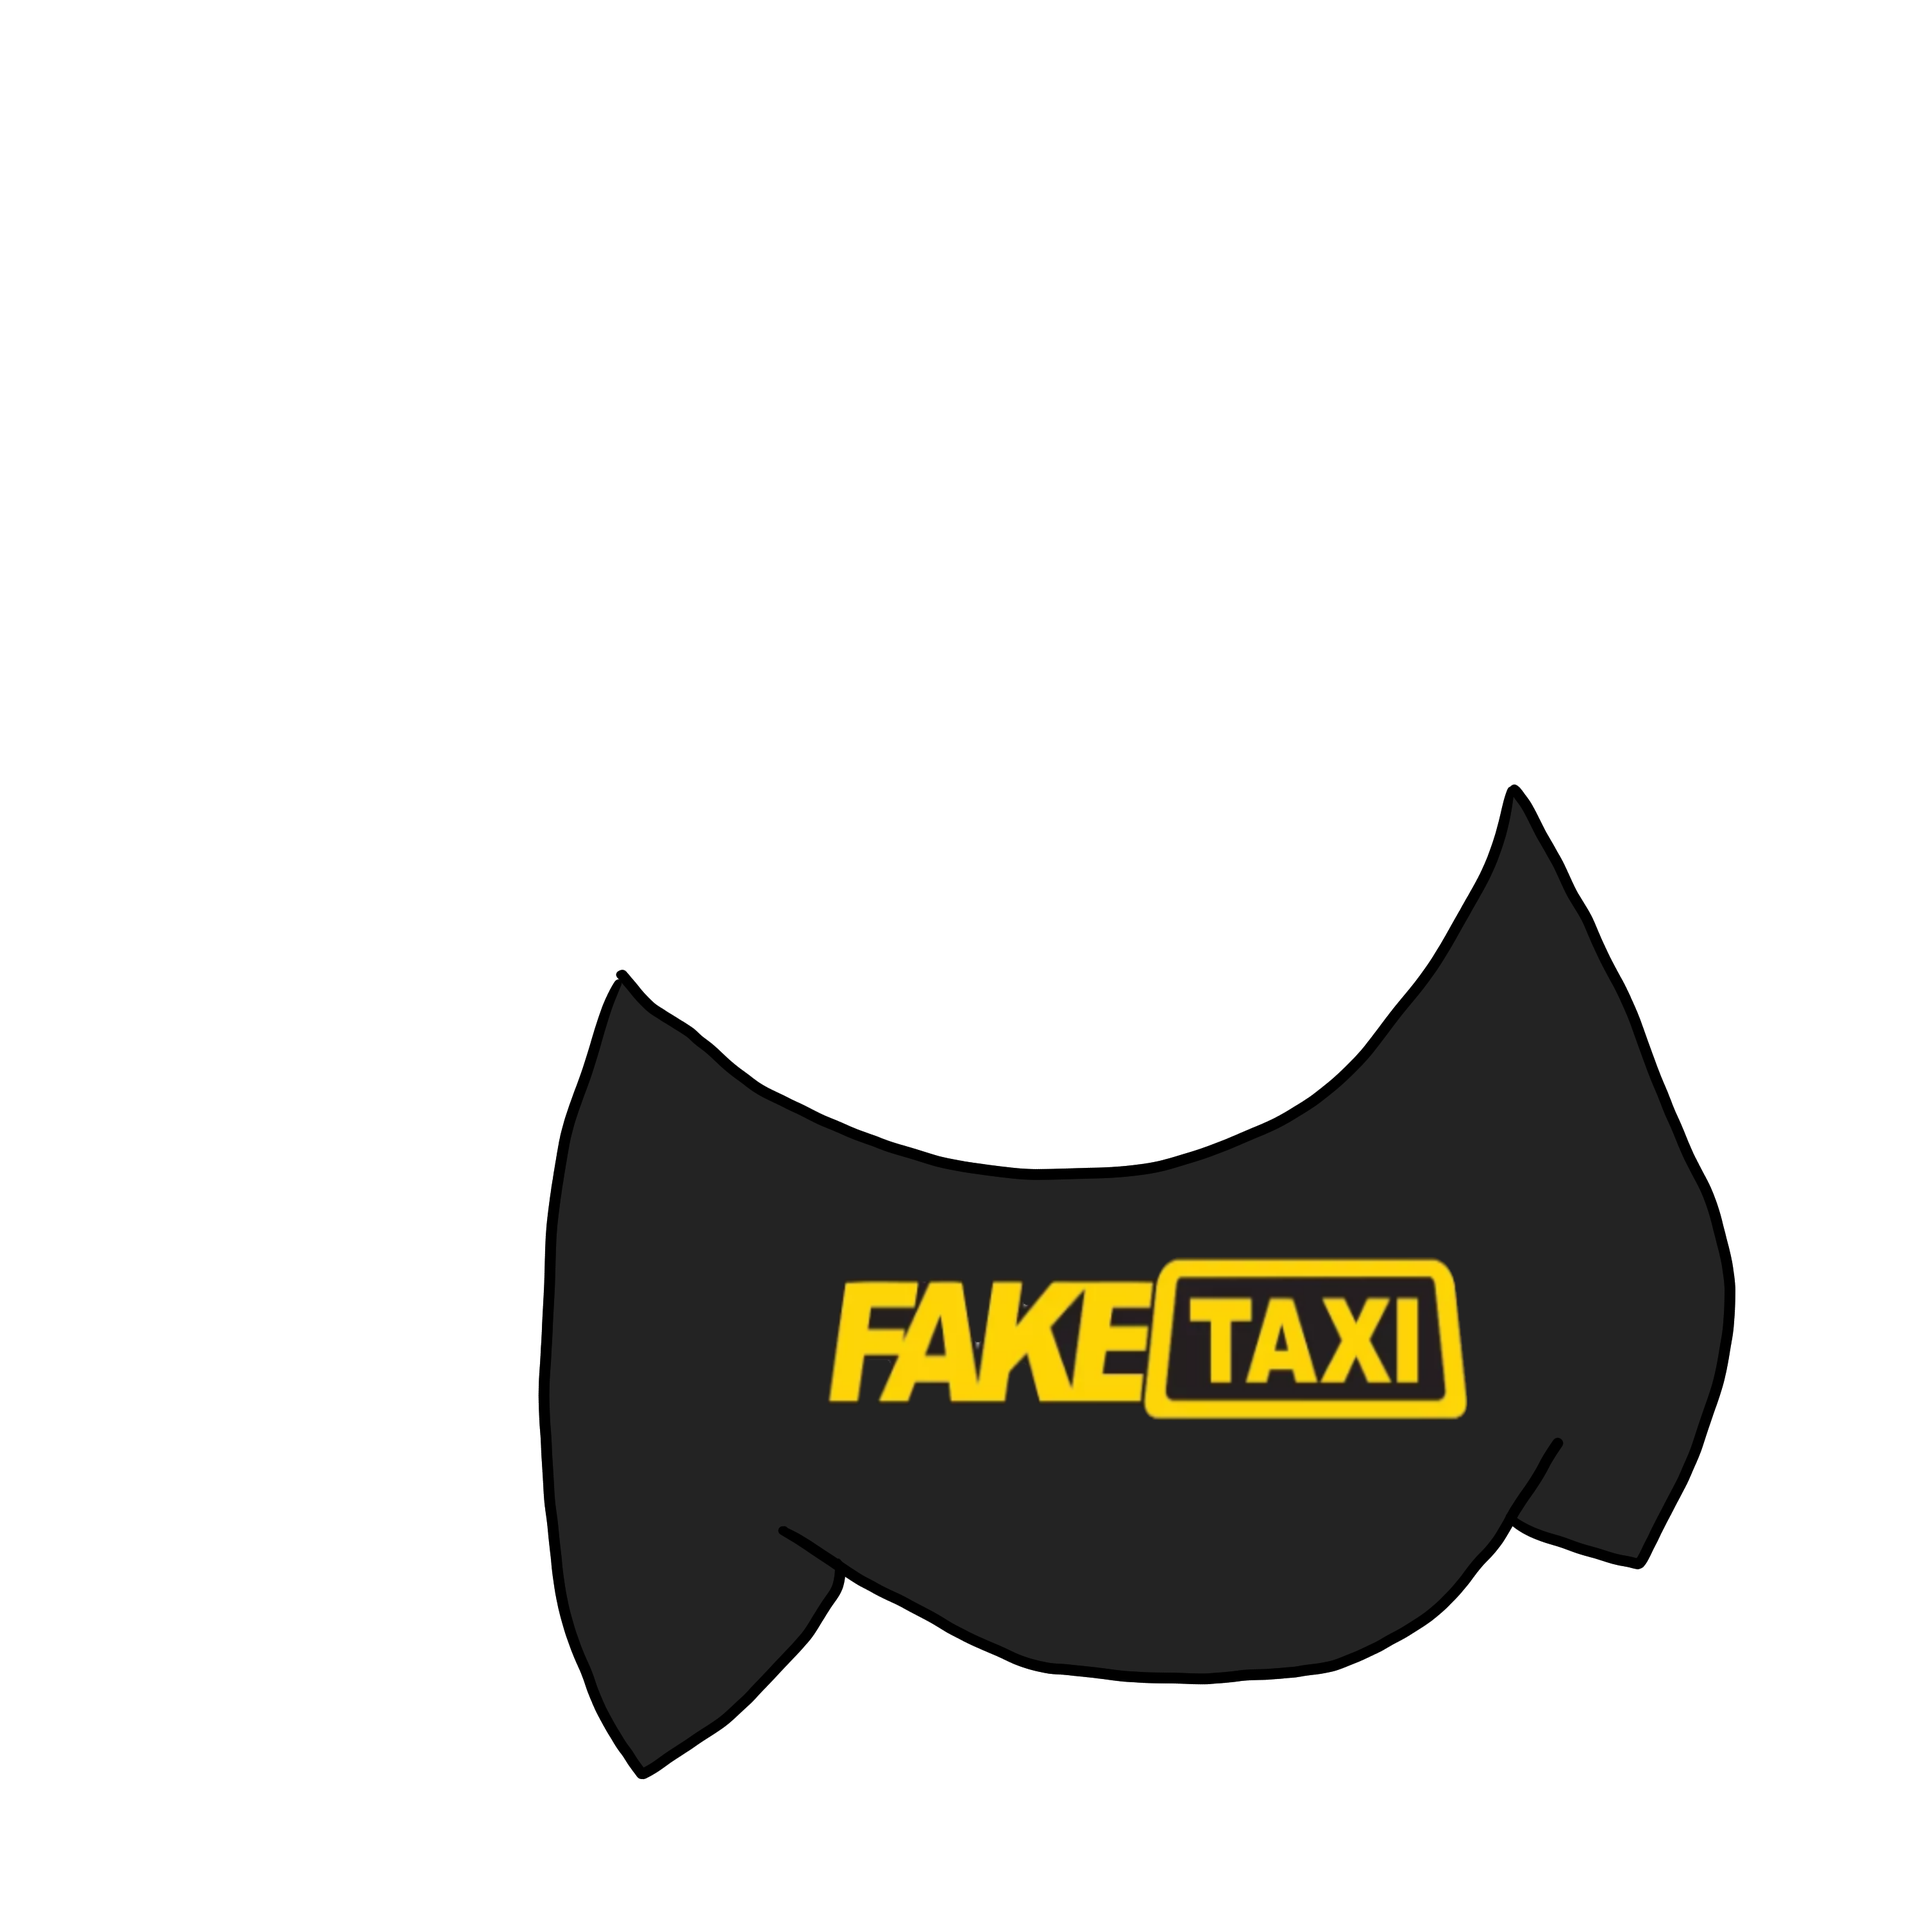
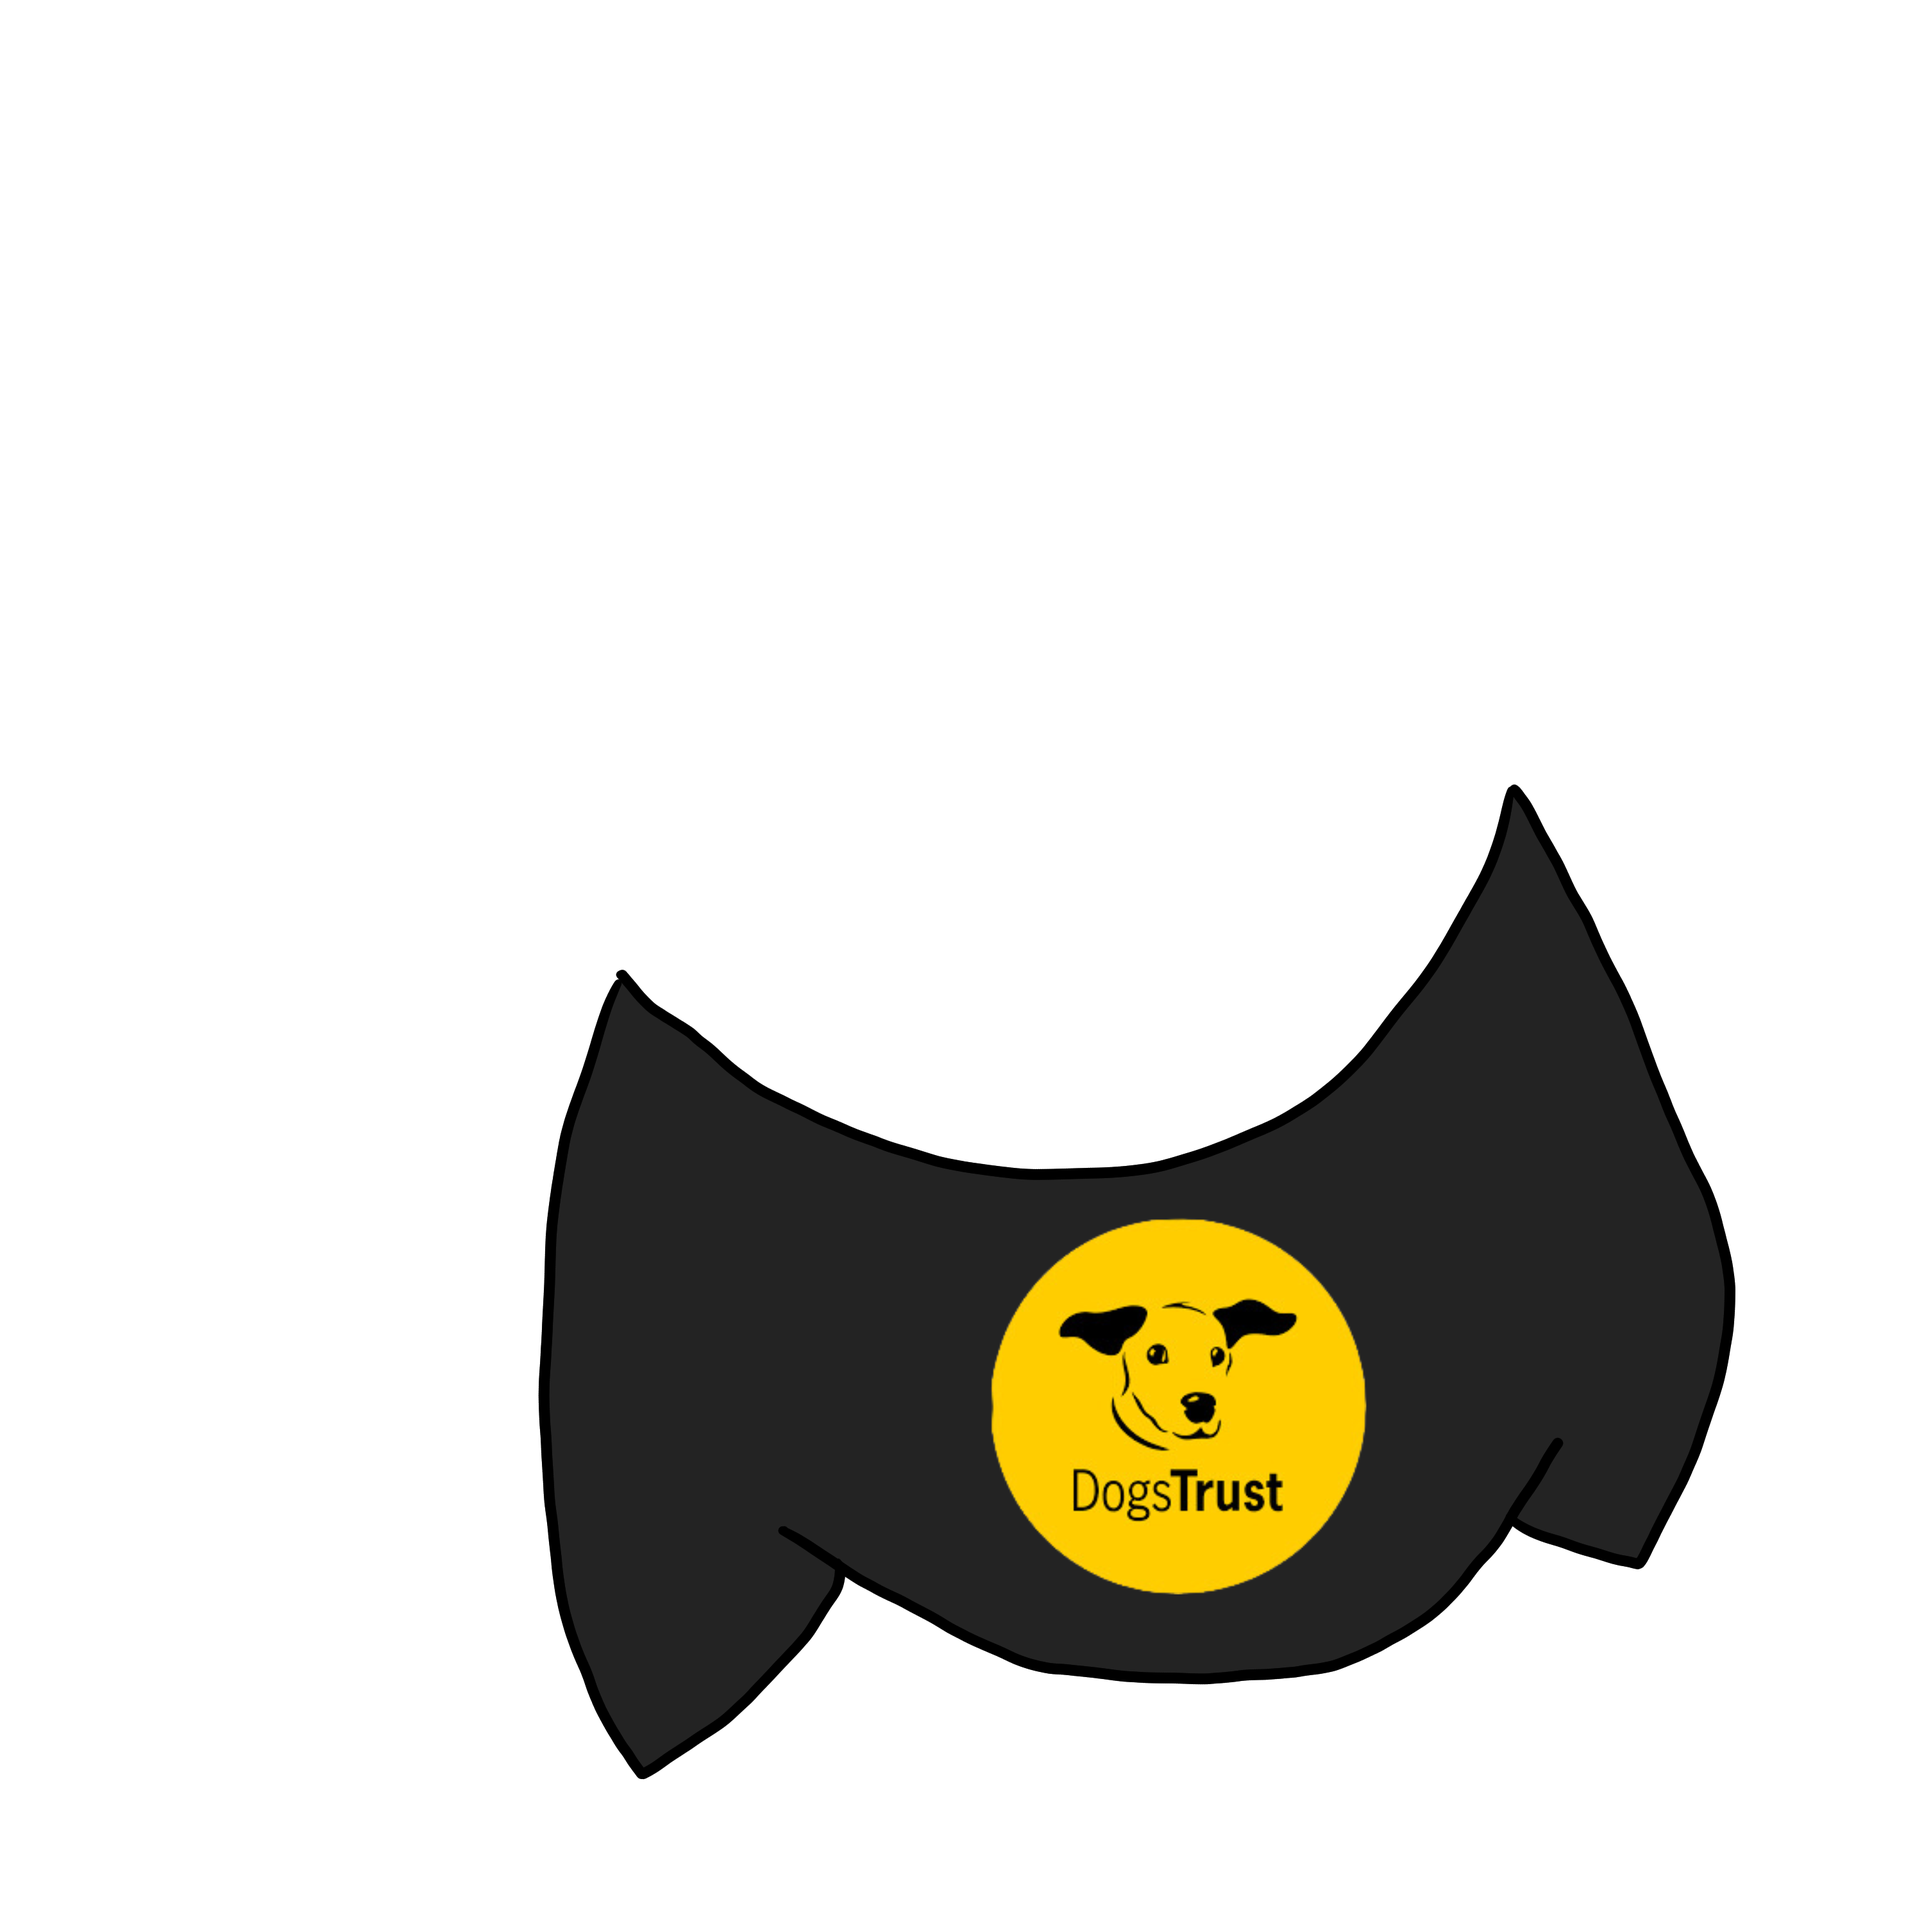
added dogstrust link and section

Changed region(s): [[0.434, 0.62, 0.775, 0.837]]

diff --git a/index.html b/index.html
@@ -217,51 +217,52 @@
         - #COLLECTION
       -->
 
-      <!-- <section class="section collection">
+      <section class="section collection">
         <div class="container">
+          <div class="row">
+            <ul class="collection-list has-scrollbar">
 
-          <ul class="collection-list has-scrollbar">
-
-            <li>
-              <div class="collection-card" style="background-image: url('./assets/images/collection-1.jpg')">
-                <h3 class="h4 card-title">Men Collections</h3>
-
-                <a href="#" class="btn btn-secondary">
-                  <span>Explore All</span>
-
-                  <ion-icon name="arrow-forward-outline" aria-hidden="true"></ion-icon>
-                </a>
+              <!-- <li>
+                <div class="collection-card" style="background-image: url('./assets/images/collection-1.jpg')">
+                  <h3 class="h4 card-title">Men Collections</h3>
+  
+                  <a href="#" class="btn btn-secondary">
+                    <span>Explore All</span>
+  
+                    <ion-icon name="arrow-forward-outline" aria-hidden="true"></ion-icon>
+                  </a>
+                </div>
+              </li> -->
+              <div class="col-md-3">
+                <img src="assets/images/dogstrust.png" alt="image" class="dogstrust">
               </div>
-            </li>
 
-            <li>
-              <div class="collection-card" style="background-image: url('./assets/images/collection-2.jpg')">
-                <h3 class="h4 card-title">Women Collections</h3>
-
-                <a href="#" class="btn btn-secondary">
-                  <span>Explore All</span>
-
-                  <ion-icon name="arrow-forward-outline" aria-hidden="true"></ion-icon>
-                </a>
+              <div class="col-md-8">
+                <li>
+                  <div class="donate-card">
+                    <a href="https://www.dogstrust.org.uk/" class="donate-btn mb-5">Donate to Dogs Trust</a>
+                    <p class="donate-text px-5">$SEALY is supporting the Dogs Trust charity in raising donations to provide care for dogs without homes. Within the last year, the charity has rehomed 10,558 dogs, supported 12,806 dogs through their Dog School and delivered nearly 1 million meals for dogs through fairshare food banks across the UK.</p>
+                  </div>
+                </li>
               </div>
-            </li>
-
-            <li>
-              <div class="collection-card" style="background-image: url('./assets/images/collection-3.jpg')">
-                <h3 class="h4 card-title">Sports Collections</h3>
-
-                <a href="#" class="btn btn-secondary">
-                  <span>Explore All</span>
-
-                  <ion-icon name="arrow-forward-outline" aria-hidden="true"></ion-icon>
-                </a>
-              </div>
-            </li>
-
-          </ul>
+  
+              <!-- <li>
+                <div class="collection-card" style="background-image: url('./assets/images/collection-3.jpg')">
+                  <h3 class="h4 card-title">Sports Collections</h3>
+  
+                  <a href="#" class="btn btn-secondary">
+                    <span>Explore All</span>
+  
+                    <ion-icon name="arrow-forward-outline" aria-hidden="true"></ion-icon>
+                  </a>
+                </div>
+              </li> -->
+  
+            </ul>
+          </div>
 
         </div>
-      </section> -->
+      </section>
 
 
 

diff --git a/assets/css/style.css b/assets/css/style.css
@@ -184,6 +184,41 @@ body {
   background-color: var(--ca);
 }
 
+.donate-card {
+  background-color: var(--blue);
+  border-radius: 100px;
+  border: 5px solid var(--blue);
+  padding: 2rem;
+}
+
+.dogstrust {
+  border: 8px solid var(--blue);
+  border-radius: 50px;
+}
+
+.donate-btn {
+  background: var(--pink);
+  color: var(--bg);
+  padding: 2rem 4rem;
+  font-size: 3rem;
+  border-radius: 100px;
+  border: 5px solid var(--blue);
+  width: 50%;
+  margin: auto;
+  text-align: center;
+}
+
+.donate-btn:hover {
+  color: var(--blue);
+}
+
+.donate-card .donate-text {
+  font-size: 2rem;
+  color: white;
+  width: 80%;
+  margin: auto;
+}
+
 .btn {
   background: var(--background, var(--bittersweet));
   color: var(--color, var(--white));
